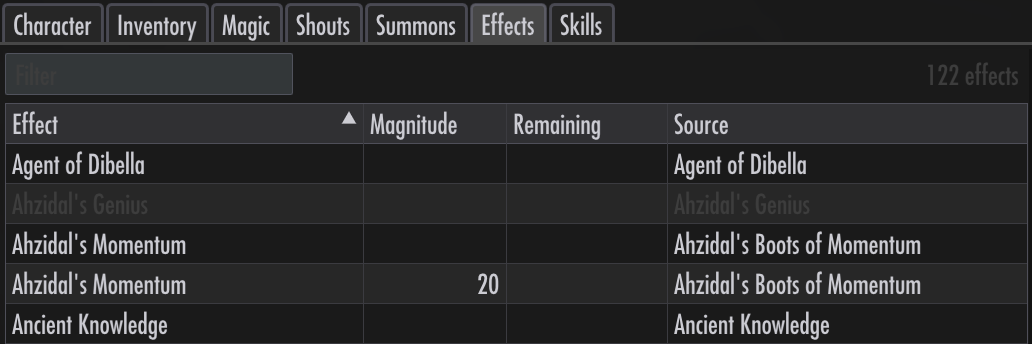
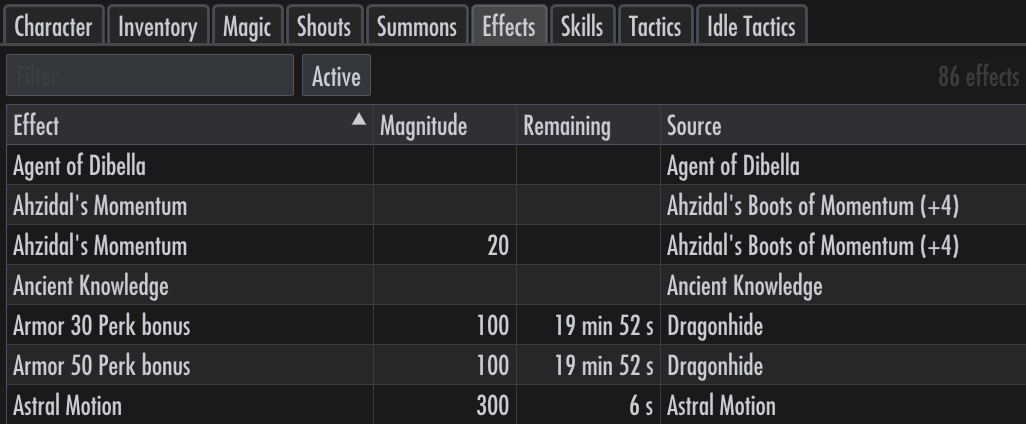
Guide: 0.4.0's changes, and a Combat AI page with the variety in TeX
A Combat AI page, after Combat Style, for the Settings page's two switches and the fixes that are always on: an attack spell's worth per second with magicka priced as time, the recency penalty and the Gumbel draw as formulas, and what P(i) that makes. Pages with math: true load MathJax.

Elsewhere, what 0.4.0 changed: the Effect and Charge needed conditions, the Charge button, ban all beside the filter, the skill gate's hover, hidden effects, skill level breakdowns, custom skill trees under training, the Requirements section, and About's line on the combat AI.

diff --git a/docs/_includes/head_custom.html b/docs/_includes/head_custom.html
@@ -10,3 +10,6 @@
   } catch (_) {}
 </script>
 <script src="{{ '/assets/js/guide.js' | relative_url }}" defer></script>
+{% if page.math %}
+<script src="https://cdn.jsdelivr.net/npm/mathjax@3/es5/tex-chtml.js" defer></script>
+{% endif %}

diff --git a/docs/guide/combat-ai.md b/docs/guide/combat-ai.md
@@ -1,0 +1,85 @@
+---
+layout: "default"
+title: "Combat AI"
+permalink: "/combat-ai/"
+nav_order: 12
+has_toc: false
+math: true
+---
+
+# Combat AI
+
+Followers fight with Skyrim's own combat AI, and [tactics]({{ '/tactics/' | relative_url }}) override it only when a rule fires. Two switches under `Settings` → `Combat AI` change how the AI picks a follower's weapon and attack spell. Both are on by default, apply only to followers, and are [saved with the game]({{ '/getting-started/' | relative_url }}#saving-your-changes).
+
+![Combat AI settings]({{ "/assets/img/panel/settings_combat_ai.png" | relative_url }}){: .screenshot loading="lazy"}
+
+## Varied AI choices
+
+In the base game, the AI rescores its weapons and spells once a second and always takes the highest score, so a follower casts the same spell over and over. Its attack-spell score does not account for perks or magicka cost.
+
+With `Varied AI choices` on, an attack spell is scored by what it does per second of the follower's time, counting magicka as time:
+
+$$
+s_i = \frac{d_i}{t_i + p\,c_i},
+\qquad
+p = \left(1 - \frac{m}{M}\right)^{2} \min\!\left(\frac{1}{\rho},\, 5\right)
+$$
+
+- $$d_i$$ is the effect value against the current enemy over one casting cycle: the game's own score, raised by perks such as Augmented Flames, and $$0$$ if the enemy is immune.
+- $$t_i$$ is the cycle time and $$c_i$$ its magicka cost. For a released spell, time is charge plus the AI’s hold before release (at least 0.1 s); for a concentration spell, value, time, and cost cover the same scoring interval.
+- $$p$$ is what a point of magicka is worth in seconds: $$0$$ with magicka $$m$$ at its maximum $$M$$, rising to the time one point takes to regenerate ($$\rho$$ points a second, at most 5 s) as it runs out. With no regeneration, use 5 s per point; with no maximum magicka, use $$p=0$$. The fraction $$m/M$$ is clamped between 0 and 1.
+
+Full magicka favours effect per second; low magicka increasingly favours efficiency. Staves cost no magicka. Scrolls are saved for low magicka: their score is multiplied by $$(1 - m/M)^2$$.
+
+The score is then varied:
+
+$$
+s_i' = s_i \, r_i \, \operatorname{clamp}\!\left(e^{g_i-\gamma},\,0.1,\,10\right)
+$$
+
+- $$r_i$$ penalizes recent use. With $$a_1, \dots, a_8$$ the follower's last eight attack casts, newest first,
+
+  $$
+  r_i = \prod_{k \,:\, a_k = i} \left(1 - 2^{-k}\right)
+  $$
+
+  so the last cast halves a spell's score, the one before takes a quarter off, and so on.
+- $$g_i$$ is a random draw from the Gumbel distribution, and $$\gamma \approx 0.577$$ centres its logarithm on 0.
+
+The AI still takes the highest adjusted score. For a fresh draw among eligible attack-spell entries, the approximate chance is
+
+$$
+P(i) \approx \frac{s_i \, r_i}{\sum_j s_j \, r_j}
+$$
+
+An entry with twice the score after the recency penalty has roughly twice the chance. This would be exact without the 0.1–10 cap; actual casts also depend on range, available hands, and the game’s casting checks.
+
+Each hand’s spell entry keeps its draw until that spell is cast and the minimum hold time has passed, the enemy changes, the entry becomes unusable, or the fight ends. This avoids rerolling every second. A cast from either hand counts toward the shared recency penalty.
+
+Weapons are scored by their damage against the current enemy after perks such as Armsman and Overdraw, with no random factor. They still compete with attack spells, so a spellsword sometimes casts where they would have swung.
+
+Heals, wards, cloaks, and other buffs keep the game's own choice. The [combat style]({{ '/combat-style/' | relative_url }}) still weighs magic against weapons.
+
+### Example
+
+A follower knows Fireball, Firebolt, and Ice Spike.
+
+#### Before
+
+Fireball scores highest, so they cast it over and over while it remains usable.
+
+#### After
+
+They mix in Firebolt and Ice Spike instead of repeating Fireball. Recent casts are less likely to repeat, fire spells are favoured against frost-resistant enemies, and the cheaper Firebolt becomes more attractive as magicka runs low.
+
+## Self-targeting damage spells
+
+In the base game, NPCs never cast spells that damage enemies around the caster, such as Fire Storm. With `Use self-targeting damage spells` on, followers score them by the damage they would do to every enemy in reach. They cast them when enemies are close, and more readily in a crowd.
+
+Followers do not check for allies nearby. [Ban]({{ '/equip-states/' | relative_url }}#banned) the spell to stop a follower casting it.
+
+## Always on
+
+- While a rule waits to cast a spell, the follower's own spells stand down, so the rule is not held up.
+- For every NPC, a spell that would dispel an effect already running on the caster waits until that effect ends. Two cloaks are no longer cast in turn.
+- For every NPC, a staff stays in use while it has the charge for a cast. The base game dropped it earlier.

diff --git a/docs/guide/tactics.md b/docs/guide/tactics.md
@@ -14,8 +14,6 @@ Tactics are condition-action rules, evaluated every 0.5s (a "tick") for the play
 
 The list is evaluated top-down. When a [**condition**](#conditions) is met, the corresponding [**actions**](#actions) are tried. If none can be executed, evaluation moves to the next rule in the same tick. See [Unavailable](#unavailable).
 
-To move a rule, drag it by its number to where you want it; a line shows where it will land. The arrows in the **Order** column move it one place.
-
 The **Tactics** tab runs in combat, including `Combat start` and `Combat end` rules. **Idle Tactics** runs out of combat. Each character has both lists; add a rule to both if you want it in both.
 
 ## Player tactics
@@ -69,6 +67,18 @@ Most conditions are self-explanatory. A few are worth highlighting.
 
 `Armor` is shown as percent of damage reduction, rather than absolute values.
 
+`Effect` is met while the named effect is active on the target, whatever applied it. The list offers the lasting effects of the character's potions, food, spells, scrolls, powers, and shouts, including toggle powers. Negate it to act while the effect is absent.
+
+`Location` checks where the target is: home, interior or exterior, a hold, or a type of building, dungeon, ruin, or settlement. It works in combat and idle tactics; for example, use `Self: Location → Home` to change equipment at home. Place types follow the game's location tags, including parent locations.
+
+`Weapon` → `Bound` → `Active` means a conjured weapon is in either hand; `None` means neither hand holds one.
+
+`Arrows` → `None` / `Available` checks whether the character carries arrows or bolts, whether equipped or not. It is offered for `Self`.
+
+`Bleeding` means an active bleeding damage effect; `Bleeding out` means the character is down. `Burning`, `Frostbitten`, and `Shocked` detect damage affecting the target, not a cloak they wear.
+
+`Weapon` → `Charge needed` is met when an enchanted weapon in hand has three or fewer uses left.
+
 ### Negation
 
 A condition can be negated by checking the `NOT` column.
@@ -119,6 +129,8 @@ The `Charge` action for enchanted weapons has two policies. `Strongest` picks th
 
 ![Action charge soul gem]({{ "/assets/img/panel/action_charge_soul_gem.png" | relative_url }}){: .screenshot loading="lazy"}
 
+`Unequip` takes off what is currently worn in the chosen slot, whether pinned or not. The follower's AI can equip something there again afterward.
+
 ### Dual casting and power bashing
 
 Under `Settings` → `Requirements`, two switches control whether followers need perks for these actions:
@@ -130,7 +142,7 @@ Both switches are **off by default**, so followers can use these actions without
 
 A follower is never offered a spell above their skill in its school: their own AI would never cast it, so a rule or a pin on it would leave them doing nothing.
 
-![Combat settings]({{ "/assets/img/panel/settings_combat.png" | relative_url }}){: .screenshot loading="lazy"}
+![Requirements settings]({{ "/assets/img/panel/settings_requirements.png" | relative_url }}){: .screenshot loading="lazy"}
 
 These switches apply to all followers and are [saved with the game]({{ '/getting-started/' | relative_url }}#saving-your-changes).
 
@@ -183,3 +195,9 @@ A rule whose [condition](#conditions) or [action](#actions) is invalid is unavai
 If there are multiple actions for a rule, the rule is unavailable if **all** actions are invalid. If only some actions are invalid, the invalid ones are skipped.
 
 An action that cannot be done at the moment is also greyed, and its hover says why: not enough magicka for the spell, a shout still recovering, a greater power already used today, an action used too recently. This is read when the page is built, so it shows the state at the moment the panel was opened. An action that is simply already in effect, a buff still running or nothing to unequip, is not greyed: that is what the rule waits on.
+
+## Reordering rules
+
+Rules run from top to bottom, so put higher-priority rules first. Drag a rule by its number and drop it at the insertion line, or use the arrows in the **Order** column to move it one place.
+
+![Dragging a tactic to a new position]({{ "/assets/img/panel/tactic_drag_and_drop.png" | relative_url }}){: .screenshot loading="lazy"}

diff --git a/docs/README.md b/docs/README.md
@@ -28,9 +28,11 @@ Open http://127.0.0.1:4000/SkyrimFollowerTactics/. Re-run the build after editin
 
 `_data/guide.json` defines the sidebar's page links and heading anchors. Keep it aligned with headings when editing. The sidebar stays on the left at every screen size; its arrow collapses it to a narrow rail. Click **Table of contents** to collapse all sections when all are open, or expand them all otherwise. Individual sections can also be collapsed. Search is Just the Docs' built-in Lunr index, including headings and body content; Ctrl+K / Cmd+K focuses it.
 
-Screenshots live in `assets/img/panel/`. `settings.png` shows the full Settings page; `settings_combat.png` shows the Combat section. The new training screenshots appear in `guide/training.md`.
+Screenshots live in `assets/img/panel/`. `settings.png` shows the full Settings page; `settings_requirements.png` shows perk and dual-wield requirements; `settings_combat_ai.png` shows the two AI options. The new training screenshots appear in `guide/training.md`.
 
 `guide/changelog.md` is a symlink to the repository's `CHANGELOG.md` and appears before Thanks in the sidebar. Edit the root file when adding release notes. On Windows, a checkout needs `git config core.symlinks true` and Developer Mode to get a real link.
+
+Pages with `math: true` in their front matter load MathJax; write TeX between `$$` delimiters, inline or on lines of their own.
 
 The Nordic color scheme is in `_sass/color_schemes/nordic.scss`, with typography and layout adjustments in `_sass/custom/custom.scss`. The theme owns the page layout and search. `_includes/components/sidebar.html` supplies the persistent table of contents.
 
@@ -40,7 +42,7 @@ The versioned build uses [`.github/workflows/docs.yml`](../.github/workflows/doc
 
 ## Versions
 
-- The site root shows the current `master` guide, labeled by `docs_version` in `_config.yml` (currently `0.3.0`). Local previews use the working tree.
+- The site root shows the current `master` guide, labeled by `docs_version` in `_config.yml` (currently `0.4.0`). Local previews use the working tree.
 - Each `vMAJOR.MINOR.PATCH` tag is built from its own `docs/` directory under `/<version>/`, such as `/SkyrimFollowerTactics/0.2.0/`. Tags must contain a buildable Jekyll guide. Creating `v0.3.0` adds `/0.3.0/` automatically.
 - Only the current sidebar and header templates, custom stylesheet, and guide script are shared with historical builds, so older docs get the same title, version selector, and navigation controls. The version selector sits in the top bar before the Nexus Mods and GitHub icons. Page content, navigation data, screenshots, and search indexes come from the tag. Search stays within the selected version.
 - The selector keeps the current page when that permalink exists in the other version, otherwise it opens that version's home page.

diff --git a/docs/guide/equip-states.md b/docs/guide/equip-states.md
@@ -2,7 +2,7 @@
 layout: "default"
 title: "Equip states"
 permalink: "/equip-states/"
-nav_order: 11
+nav_order: 5
 has_toc: false
 ---
 
@@ -52,6 +52,14 @@ Banned objects can be equipped by [tactics]({{ '/tactics/' | relative_url }}#act
 
 The AI won't use banned objects. This is useful for preventing a follower from using a particular [weapon]({{ '/inventory/' | relative_url }}#weapons), casting a certain [spell]({{ '/magic/' | relative_url }}), etc.
 
+### Ban / unban all
+
+Click the ban button beside `Filter` to ban all items or spells in the filtered list. When all are already banned, click it again to unban them. Clear the filter to apply it to the whole list.
+
+This control is available on a follower's Weapons, Armor, and Arrows lists, and on each school's list in the Magic tab.
+
+![Ban or unban all filtered weapons]({{ "/assets/img/panel/weapon_ban_all.png" | relative_url }}){: .screenshot loading="lazy"}
+
 ## Unavailable
 
 An object the follower cannot equip is **unavailable**.
@@ -63,6 +71,6 @@ Many NPC spells are restricted to a particular hand. Below, `Raise Zombie` can o
 
 ![Spell unavailable hand]({{ "/assets/img/panel/spell_unavailable_hand.png" | relative_url }}){: .screenshot loading="lazy"}
 
-Some spells require a certain [skill level]({{ '/skills/' | relative_url }}) to use. Below, `Blood Javelin` requires Destruction of 75, while the follower only has 51. Therefore, both hands are unavailable.
+Some spells require a certain [skill level]({{ '/skills/' | relative_url }}) to use. Below, `Blood Javelin` requires Destruction of 75, while the follower only has 51. Therefore, both hands are unavailable. Every effect's skill requirement counts, as it does for the game's AI. Hover over the spell to see the level it needs; its details page greys the effect that requires it.
 
 ![Spell unavailable level]({{ "/assets/img/panel/spell_unavailable_level.png" | relative_url }}){: .screenshot loading="lazy"}

diff --git a/docs/guide/combat-style.md b/docs/guide/combat-style.md
@@ -2,7 +2,7 @@
 layout: "default"
 title: "Combat Style"
 permalink: "/combat-style/"
-nav_order: 10
+nav_order: 11
 has_toc: false
 ---
 
@@ -15,7 +15,7 @@ The player is not AI-controlled, and therefore has no combat style.
 
 ![Combat style]({{ "/assets/img/panel/combat_style.png" | relative_url }}){: .screenshot loading="lazy"}
 
-Combat style determines how the AI picks attacks. In the example, `Magic` is set to 10 / 10, while Ranged is set to 0.55 / 10. The AI will therefore heavily prefer magic over ranged attacks.
+Combat style determines how the AI picks attacks. In the example, `Magic` is set to 10 / 10, while Ranged is set to 0.55 / 10. The AI will therefore heavily prefer magic over ranged attacks. [Combat AI]({{ '/combat-ai/' | relative_url }}) describes what else goes into the choice.
 
 ## Dual-wielding
 
@@ -26,6 +26,6 @@ Combat style also determines whether a follower can dual-wield.
 Dual-wielding only applies to melee weapons. Having a sword in one hand and a staff in the other does not qualify as dual-wielding.
 {: .note }
 
-In `Settings`, the requirement to have the right combat style to dual-wield can be removed.
+To allow dual-wielding regardless of combat style, turn off `Settings` → `Requirements` → `Require dual wield combat style`.
 
-![Combat settings]({{ "/assets/img/panel/settings_combat.png" | relative_url }}){: .screenshot loading="lazy"}
+![Requirements settings]({{ "/assets/img/panel/settings_requirements.png" | relative_url }}){: .screenshot loading="lazy"}

diff --git a/docs/guide/training.md b/docs/guide/training.md
@@ -2,7 +2,7 @@
 layout: "default"
 title: "Follower training"
 permalink: "/training/"
-nav_order: 9
+nav_order: 10
 has_toc: false
 ---
 
@@ -25,6 +25,8 @@ The follower's [Character tab]({{ '/character/' | relative_url }}) shows their l
 Open a skill on the follower's [Skills tab]({{ '/skills/' | relative_url }}) to see its perk tree. The controls beside the skill level move one level or as far as available. Taking a skill level back returns its experience value to a pool that you can spend on another skill. A skill cannot go below its starting value, and a perk that still needs its current skill level must be returned before you can lower it.
 
 Click a perk circle to learn its next rank; right-click to return the highest held rank. The page shows available perk points. **Reset perks** returns all held perks in that skill's tree for reassignment. Perks the follower started with can also be returned and restored; their original record stays intact.
+
+[Custom Skills Framework]({{ '/skills/' | relative_url }}) trees spend the same perk points and work the same way, but have no skill level to move.
 
 ![Skill tree and perk controls]({{ "/assets/img/panel/skill_tree.png" | relative_url }}){: .screenshot loading="lazy"}
 

diff --git a/docs/index.md b/docs/index.md
@@ -14,6 +14,7 @@ has_toc: false
 
 ## Features
 
+- More varied follower [combat AI]({{ '/combat-ai/' | relative_url }}) that accounts for perks, enemy immunities, and magicka
 - [Tactics]({{ '/tactics/' | relative_url }}) for the player and followers, with separate combat and idle rules
 - Inspection of player and follower [inventory]({{ '/inventory/' | relative_url }}), [magic]({{ '/magic/' | relative_url }}), [skills]({{ '/skills/' | relative_url }}), and more
 - Follower [equipment management]({{ '/equip-states/' | relative_url }})
@@ -27,6 +28,6 @@ This mod focuses on understanding followers, setting their tactics, and training
 - Follower management framework
   - See options like [Simple Followers Framework](https://www.nexusmods.com/skyrimspecialedition/mods/174017)
 - Combat AI overhaul
-  - Underlying AI behavior is preserved, only occasionally overridden by tactics
+  - Underlying AI behavior is preserved. Tactics override it when a rule fires, and [optional changes]({{ '/combat-ai/' | relative_url }}) only affect how followers choose weapons and attack spells
 - Gameplay rebalancer
   - Some followers are over or underpowered. This is not addressed.

diff --git a/docs/guide/skills.md b/docs/guide/skills.md
@@ -2,7 +2,7 @@
 layout: "default"
 title: "Skills"
 permalink: "/skills/"
-nav_order: 8
+nav_order: 9
 has_toc: false
 ---
 
@@ -14,7 +14,9 @@ For a trained follower, click a skill to [reassign its levels and perks]({{ '/tr
 
 ![Skills]({{ "/assets/img/panel/skills.png" | relative_url }}){: .screenshot loading="lazy"}
 
-Custom skills added by [Custom Skills Framework](https://www.nexusmods.com/skyrimspecialedition/mods/41780) are supported.
+Hovering over a skill's level shows its breakdown: the base value, levels gained through [training]({{ '/training/' | relative_url }}), and each effect on it.
+
+Custom skills added by [Custom Skills Framework](https://www.nexusmods.com/skyrimspecialedition/mods/41780) are supported. Click one to open its perk tree.
 
 ![Skills custom]({{ "/assets/img/panel/skills_custom.png" | relative_url }}){: .screenshot loading="lazy"}
 

diff --git a/docs/guide/effects.md b/docs/guide/effects.md
@@ -2,13 +2,18 @@
 layout: "default"
 title: "Effects"
 permalink: "/effects/"
-nav_order: 7
+nav_order: 8
 has_toc: false
 ---
 
 # Effects
 
-The `Effects` tab shows active effects.
+The `Effects` tab lists effects on the character. Click the button beside `Filter` to switch between:
+
+- **Active** (default): effects currently acting on the character.
+- **All**: also includes inactive effects and effects that make no change to the character, shown greyed out.
+
+The button names the current view. Effects hidden by the game's own list can appear in either view; their details say whether they are hidden.
 
 ![Effects]({{ "/assets/img/panel/effects.png" | relative_url }}){: .screenshot loading="lazy"}
 

diff --git a/docs/guide/inventory.md b/docs/guide/inventory.md
@@ -30,6 +30,8 @@ Effect details, including conditions, are available, so you can see exactly what
 
 ![Weapon effects]({{ "/assets/img/panel/weapon_effects.png" | relative_url }}){: .screenshot loading="lazy"}
 
+An enchanted weapon's details page has a `Charge` button, which recharges that weapon with the weakest filled soul gem carried.
+
 ### Dual-wielding
 
 If a follower cannot [dual-wield]({{ '/combat-style/' | relative_url }}#dual-wielding), putting a weapon into their left hand will remove the one in their right hand, and vice versa.

diff --git a/CHANGELOG.md b/CHANGELOG.md
@@ -2,7 +2,7 @@
 layout: "default"
 title: "Changelog"
 permalink: "/changelog/"
-nav_order: 12
+nav_order: 13
 has_toc: false
 ---
 
